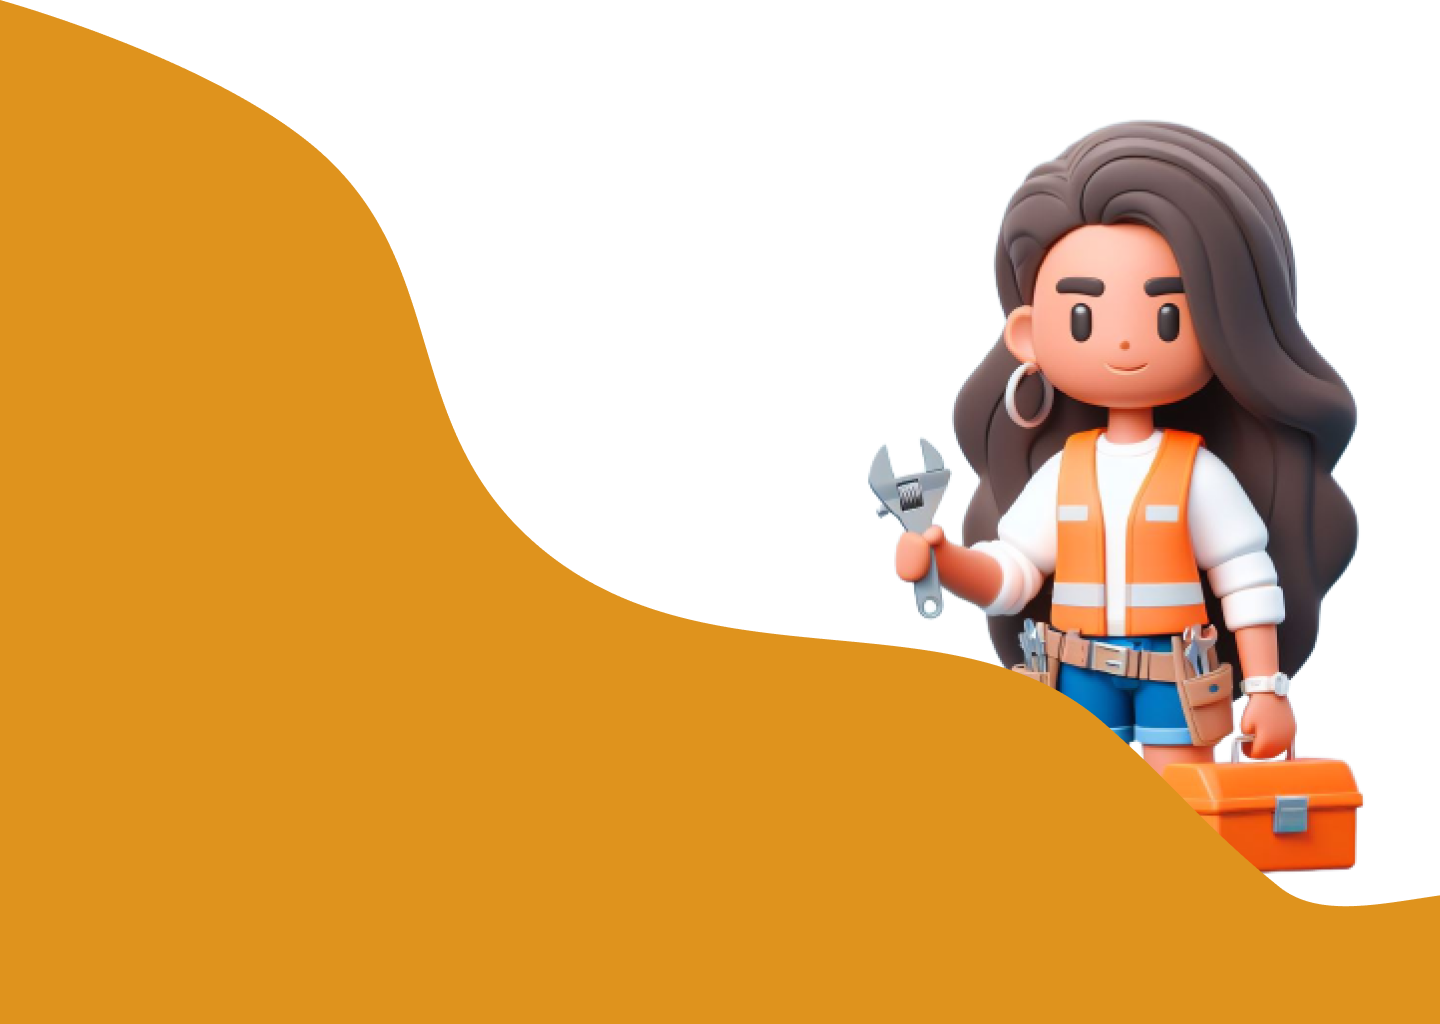
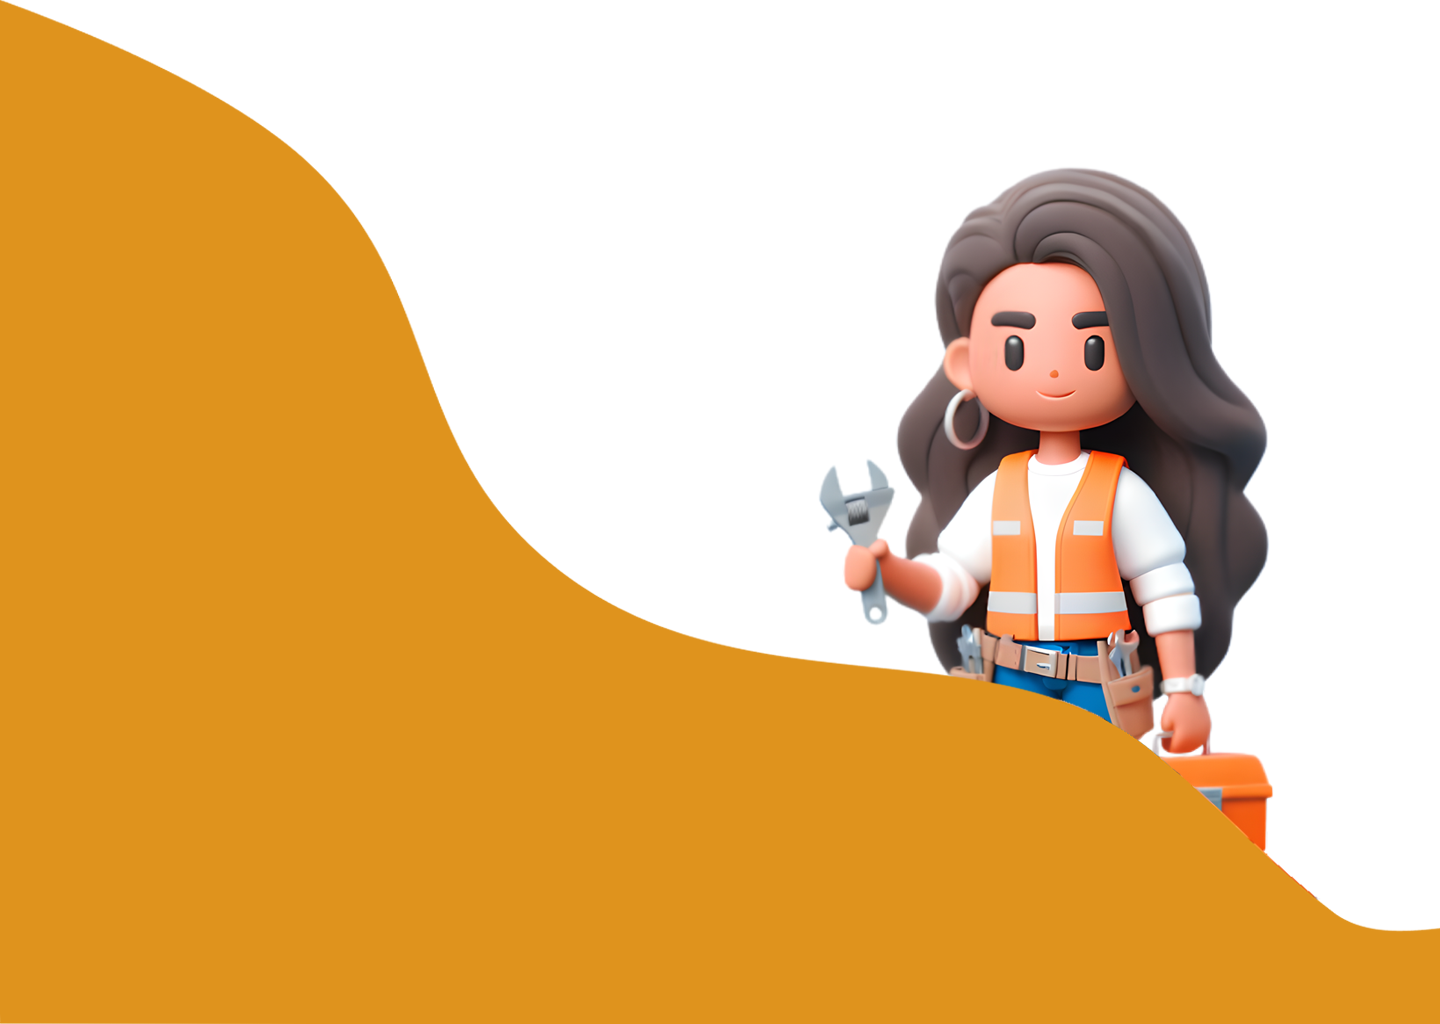
add registre

diff --git a/src/componentes/Registro_Login/Registro/Registro.css b/src/componentes/Registro_Login/Registro/Registro.css
@@ -1,8 +1,7 @@
 .reg {
-    background-image: url(../../imgs/registre.png);
+    background-image: url(../../imgs/RegistreCliente.png);
     width: 100%;
     height: 100vh;
-    background-attachment: fixed;
     background-position: center;
     background-size: cover;
     background-repeat: no-repeat;
@@ -125,4 +124,15 @@
 
 .colorbluet{
     color: rgb(1, 43, 102) ;
+}
+
+
+@media  only screen and (max-width: 480px) {
+    .reg{
+        height: 180vh;
+    }
+    .auth-containerrc{
+        width: 80%;
+        height: 65%;
+    }
 }

diff --git a/src/componentes/Registro_Login/Registro/Registro.js b/src/componentes/Registro_Login/Registro/Registro.js
@@ -1,8 +1,5 @@
 import './Registro.css'
 import { Link } from "react-router-dom";
-//IMG
-import DonaMaria from "../../imgs/dona-maria (1).png"
-import CurvaLo from "../../imgs/curvalog.png"
 //ICONS
 import { FaUser } from "react-icons/fa";
 import { MdEmail } from "react-icons/md";
@@ -57,6 +54,7 @@ function RegistroCliente() {
 
                 <Link to='/LoginCliente'><button className='Btn_Registrop colorblue' type="submit">CADASTRE-SE</button></Link>
             </div>
+            
         </div>
     );
 };

diff --git a/src/componentes/Registro_Login/Registro/Registro2.css b/src/componentes/Registro_Login/Registro/Registro2.css
@@ -2,7 +2,6 @@
     background-image: url(../../imgs/registre.png);
     width: 100%;
     height: 100vh;
-    background-attachment: fixed;
     background-position: center;
     background-size: cover;
     background-repeat: no-repeat;
@@ -115,4 +114,14 @@
 .termos{
     padding: 5%;
     color: #ff8c00;
+}
+
+@media  only screen and (max-width: 480px) {
+    .regze{
+        height: 180vh;
+    }
+    .containerrc{
+        width: 80%;
+        height: 65%;
+    }
 }

diff --git a/src/componentes/Registro_Login/Registro/Registro2.js b/src/componentes/Registro_Login/Registro/Registro2.js
@@ -52,7 +52,7 @@ function RegistroPrestador() {
                 </div>
 
 
-                <Link to='/LoginCliente'><button className='Btn_Registrop' type="submit">CADASTRE-SE</button></Link>
+                <Link to='/LoginPrestador'><button className='Btn_Registrop' type="submit">CADASTRE-SE</button></Link>
             </div>
         </div>
        
